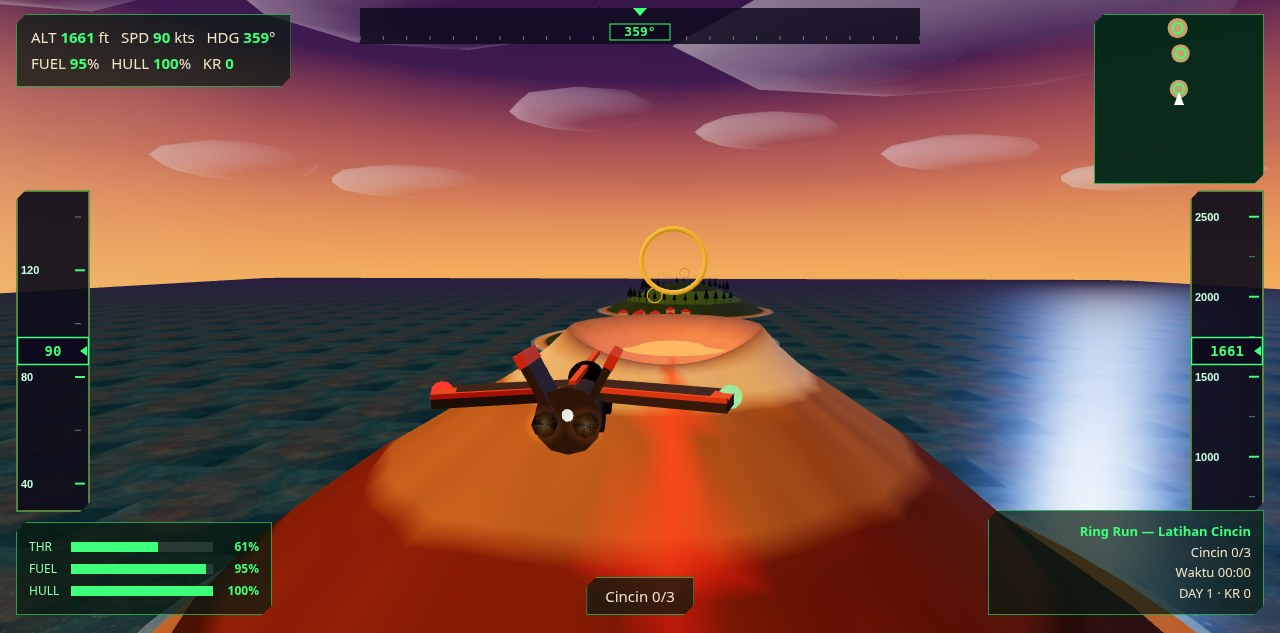
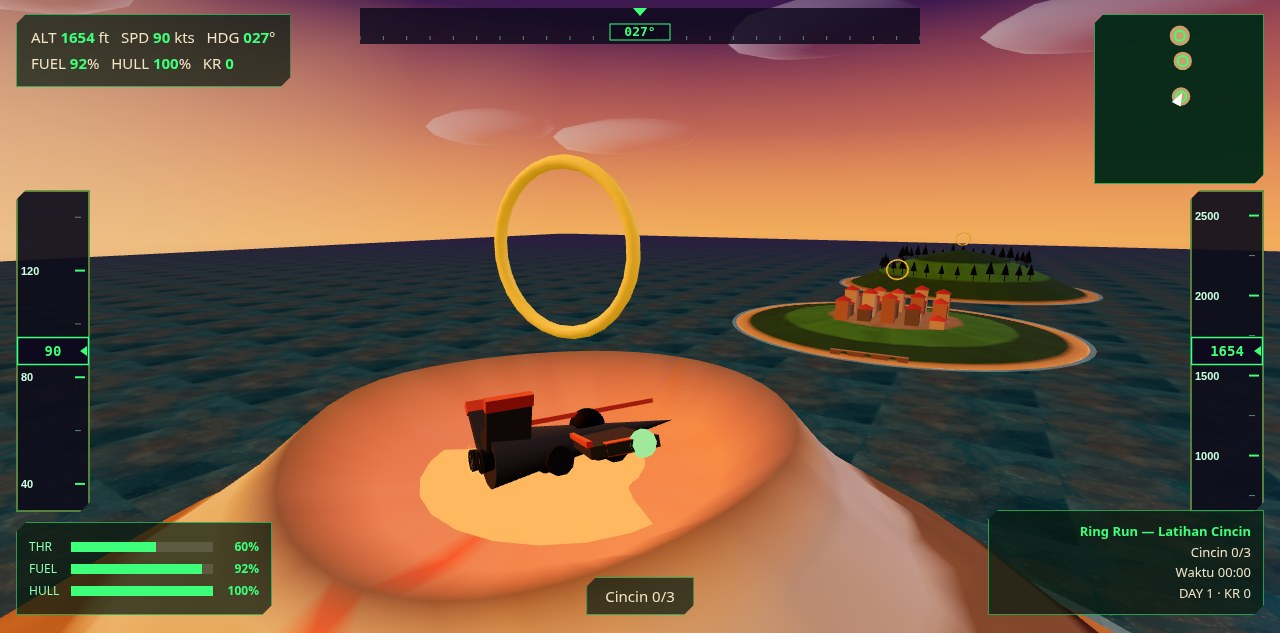
V2-F play shot dramatis
Play shot kini freeze mid-turn: staging dua leg (waypoint di samping
ring 1, lalu belok ke ring, freeze 1.5 dtk kemudian) — pesawat banked
~19 deg, ring ~144 px tetap utuh di frame. Varian A2 (straight-in,
ring 230 px) ditolak: pesawat level terbaca statis. Test 53/53.

diff --git a/game/src/shots.js b/game/src/shots.js
@@ -55,7 +55,27 @@ export function stageShot(name, seed = 1) {
     world.plane.y = SHOTS.playAlt;
     world.plane.airborne = true;
     world.plane.z = SHOTS.spawnZ;
-    for (let i = 0; i < SHOTS.playSeconds / SHOTS.sample; i += 1) {
+    // V2-F lever 2 (bank): two-leg staging. Leg 1 flies at a waypoint
+    // beside ring 1; leg 2 switches onto the ring and freezes 1.5 s
+    // later — mid-turn, banked (~19 deg roll). A straight-in freeze
+    // (V2-F A2) reads static; the bank reads as motion. The waypoint
+    // sits BESIDE the ring, not south of it: a south waypoint switches
+    // early (t1 ~16-20 s) with the ring still 2000+ ft out (ring
+    // 62-88 px); a beside-ring waypoint switches at ~28.6 s with the
+    // ring ~760 ft out (ring ~144 px, probe-bank.mjs + beside-ring
+    // sweep). playLeg1Cap is a safety cap only.
+    const ring1 = world.rings[0];
+    const wp = {
+      x: ring1.x + SHOTS.playWaypoint.dx,
+      y: ring1.y,
+      z: ring1.z + SHOTS.playWaypoint.dz,
+    };
+    for (let i = 0; i < SHOTS.playLeg1Cap / SHOTS.sample; i += 1) {
+      const p = world.plane;
+      if (Math.hypot(p.x - wp.x, p.y - wp.y, p.z - wp.z) < SHOTS.playSwitchDist) break;
+      stepWorld(world, SHOTS.sample, autopilotTo(world, wp.x, wp.y, wp.z));
+    }
+    for (let i = 0; i < SHOTS.playLeg2Seconds / SHOTS.sample; i += 1) {
       const t = nextRingTarget(world);
       if (!t) break;
       stepWorld(world, SHOTS.sample, autopilotTo(world, t.x, t.y, t.z));

diff --git a/tests/shots.test.js b/tests/shots.test.js
@@ -62,3 +62,22 @@ test('autopilotTo clamps pitch to the staging envelope', () => {
   w.plane.y = 5000;
   assert.equal(autopilotTo(w, 0, 100, 10000).pitch, -8);
 });
+
+// V2-F lever 2 (bank) — supersedes the lever-1 A2 test (straight-in,
+// ring <=600 ft): the play shot freezes MID-TURN toward the ring. Leg 1
+// flies at a waypoint 600 ft west / 200 ft south of ring 1; leg 2
+// switches onto the ring and freezes 1.5 s later, while the plane is
+// still rolling right (probe: roll 18.9 deg, ring 756 ft out, ~144 px).
+// A straight-in freeze reads static; the bank reads as motion. The ring
+// is smaller than A2's 230 px — the trade is deliberate: motion over size.
+test('play shot freezes mid-turn toward the ring, banked, ring close and uncollected', () => {
+  const { world } = stageShot('play', 1);
+  const p = world.plane;
+  assert.equal(p.airborne, true, 'plane must still be airborne');
+  assert.equal(world.collected, 0, `rings collected=${world.collected}`);
+  const next = world.rings.find((r) => !r.collected);
+  const dist = Math.hypot(p.x - next.x, p.y - next.y, p.z - next.z);
+  assert.ok(dist <= 900, `next ring ${Math.round(dist)} ft away, want <= 900`);
+  assert.ok(dist > 150, `next ring ${Math.round(dist)} ft away, want > ring radius 150`);
+  assert.ok(p.roll >= 15, `roll=${p.roll.toFixed(1)} deg, want >= 15 (banked mid-turn)`);
+});

diff --git a/game/src/main.js b/game/src/main.js
@@ -228,8 +228,15 @@ if (shotName) {
   // yaw 10° shows a real three-quarter rear profile (fuselage length +
   // swept wing + V-tail from the side) while the ring stays centred —
   // the lookAt ignores yaw, so the target does not drift.
+  // V2-F: play staging is now 30 s (ring 548 ft ahead, ~3.3x the v2
+  // size) — at that range the ring's bottom dips into the plane's
+  // silhouette at pitch 0 (probe gap -35 px). Pitch +40 RAISES the
+  // camera (opposite direction from the V2-D -80 failure: lowering the
+  // camera occludes, raising it clears) and opens a 26 px gap while the
+  // ring stays fully in frame; the higher camera also pulls more lava
+  // slope into the lower frame. Verified by probe-frame.mjs, not by eye.
   const shotOrbit = shotName === 'play'
-    ? { yaw: 10, pitch: 0, zoom: 40 }
+    ? { yaw: 10, pitch: 40, zoom: 40 }
     : shotName === 'landing'
       ? { yaw: 2, pitch: -80, zoom: 40 }
       : shotName === 'end' ? { yaw: 0, pitch: 0, zoom: 40 } : { yaw: 0, pitch: 0 };

diff --git a/game/src/config.js b/game/src/config.js
@@ -88,7 +88,16 @@ export const FLIGHT = {
 export const SHOTS = {
   sample: 1 / 30,
   startSeconds: 5,
-  playSeconds: 18,
+  // V2-F lever 2 (bank): the play shot stages in two legs — leg 1 flies
+  // at a waypoint beside ring 1 (dx west, dz south of it), leg 2 switches
+  // onto the ring when within playSwitchDist and freezes playLeg2Seconds
+  // later, mid-turn (roll ~19 deg). playLeg1Cap is a safety cap only;
+  // the switch happens at ~28.6 s. (playSeconds retired: the staging
+  // time is now set by the waypoint geometry, not a fixed duration.)
+  playWaypoint: { dx: -600, dz: -200 },
+  playSwitchDist: 600,
+  playLeg2Seconds: 1.5,
+  playLeg1Cap: 40,
   landingSeconds: 40,
   spawnZ: -2500,
   startSpeed: 100,
